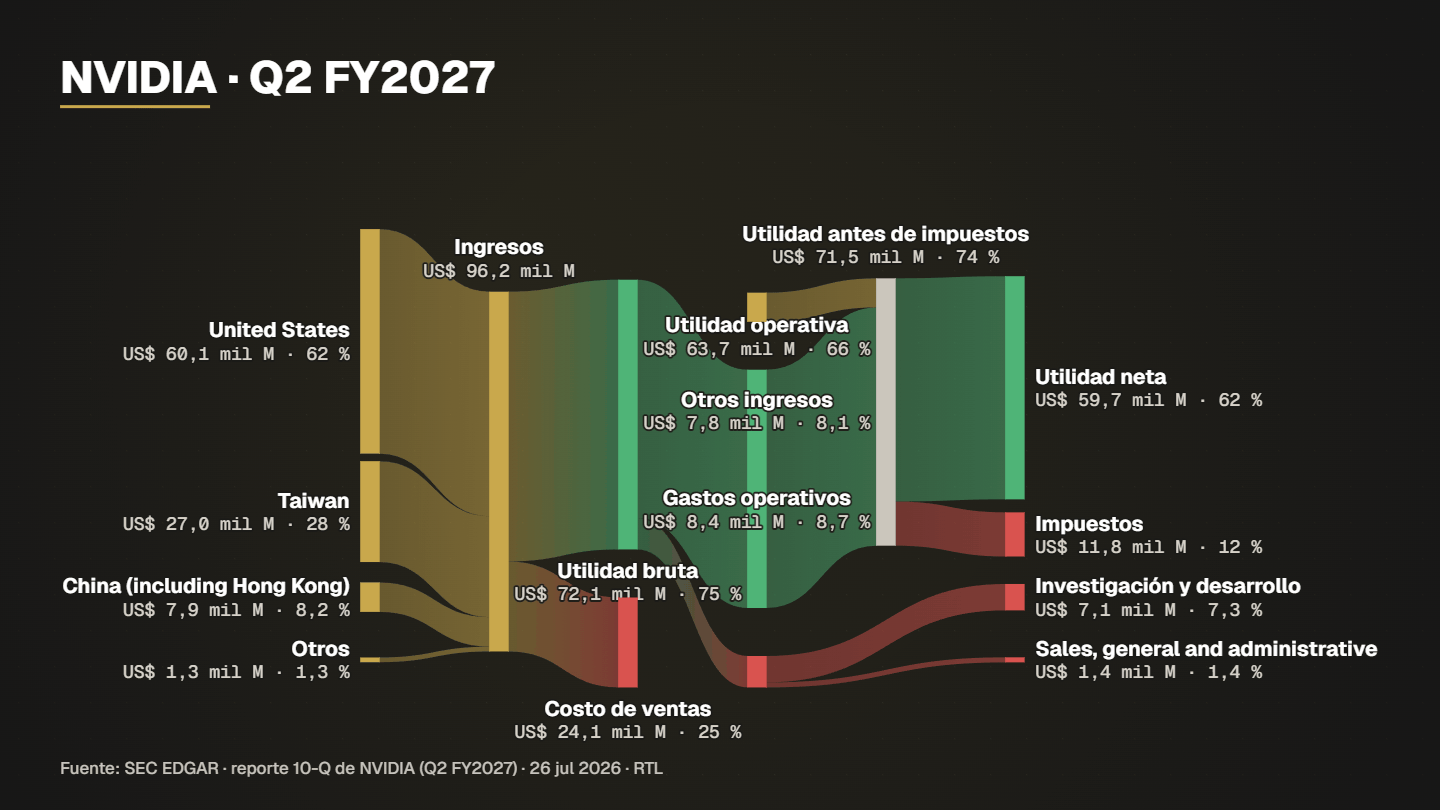
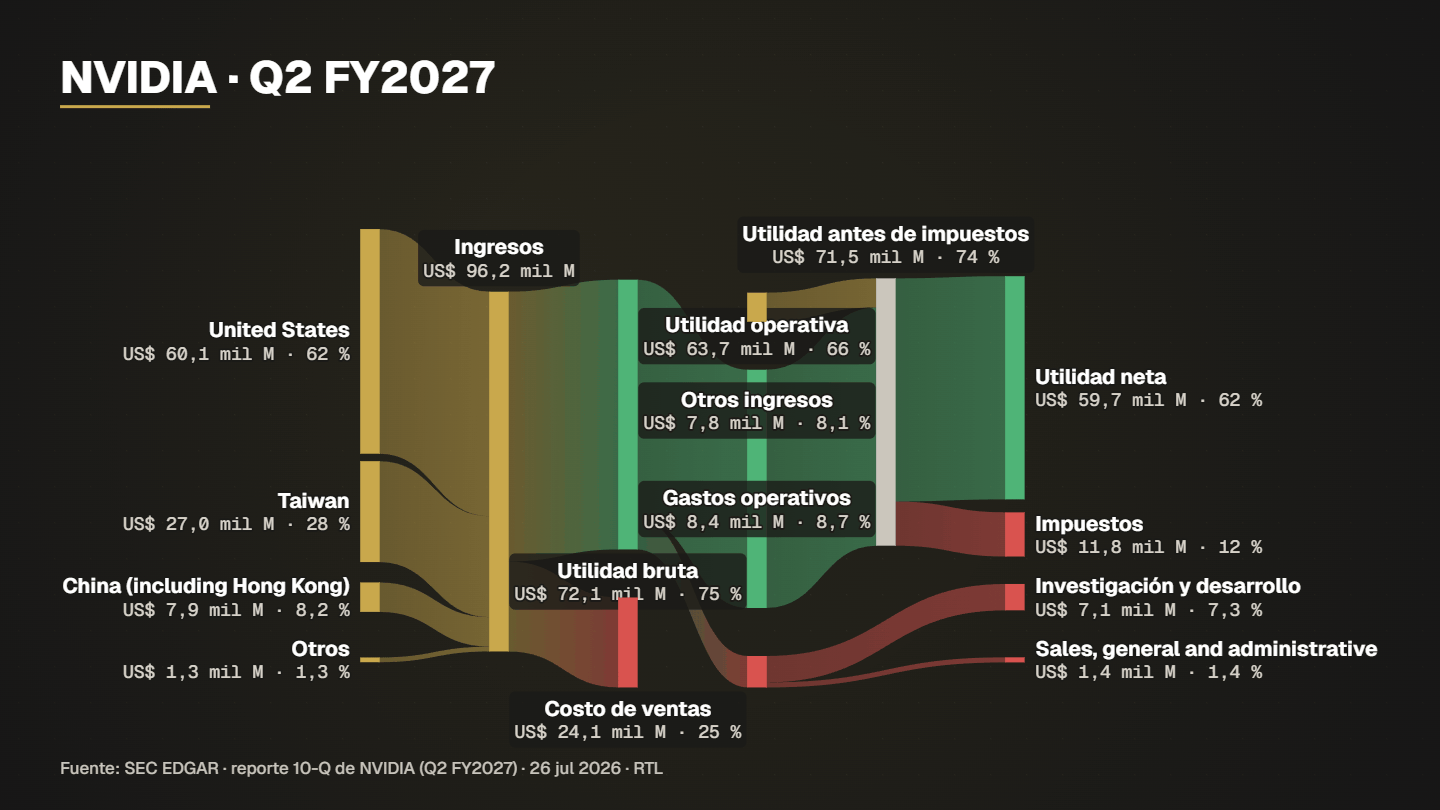
Charts: Sankey label plates, wrapped subtitles (no ellipsis), correlation/lollipop/slope/histogram layout fixes

diff --git a/motor/capas.js b/motor/capas.js
@@ -468,25 +468,26 @@ function calor(env, capa) {
   const [t0, t1] = capa.t ?? [0.5, 3];
   const ap = aparece(env, capa, t0); if (ap <= 0) return;
   const m = M.etiquetas.length, vert = env.H > env.W;
-  ctx.font = fnt(700, 22 * u); const LW = Math.min(B.w * 0.36, Math.max(...M.etiquetas.map((e) => ctx.measureText(e).width)) + 24 * u);
-  const cabeza = (vert ? 200 : 120) * u, side = Math.min(B.w - LW, B.h - cabeza) * 0.98, c = side / m;
+  ctx.font = fnt(700, 22 * u); const LW = Math.min(B.w * (vert ? 0.44 : 0.36), Math.max(...M.etiquetas.map((e) => ctx.measureText(e).width)) + 24 * u);
+  const cabeza = (vert ? 250 : 120) * u, side = Math.min(B.w - LW, B.h - cabeza) * 0.98, c = side / m, ch = vert ? Math.min(c * 1.7, (B.h - cabeza) * 0.98 / m) : c;   // en vertical las casillas son más altas que anchas: llenan el lienzo
   const ox = B.x + LW, oy = B.y + cabeza;
   const col = (v) => colorDivergente(clamp(v, -1, 1));   // BrBG vendorizado (motor/escalas.js): el cero ya no se confunde con el fondo y distingue negativo/positivo un daltónico
   ctx.save(); ctx.globalAlpha = ap;
   for (let i = 0; i < m; i++) {
     // nombres completos en hasta 2 líneas (antes «Bono del Tesoro 10 años (di…»); solo si ni así caben, el último recurso es cortar
-    ctx.font = fnt(700, 22 * u); const lhN = escalarFuente(22 * u) * 1.1, lnC = envolverEntero(ctx, M.etiquetas[i], LW - 20 * u, 2) ?? [cortar(ctx, M.etiquetas[i], LW - 20 * u)], yC = oy + i * c + c / 2 + mid(22 * u) - ((lnC.length - 1) * lhN) / 2;
+    ctx.font = fnt(700, 22 * u); const lhN = escalarFuente(22 * u) * 1.1, lnC = envolverEntero(ctx, M.etiquetas[i], LW - 20 * u, 3) ?? [cortar(ctx, M.etiquetas[i], LW - 20 * u)], yC = oy + i * ch + ch / 2 + mid(22 * u) - ((lnC.length - 1) * lhN) / 2;
     lnC.forEach((l, q) => texto(ctx, l, ox - 14 * u, yC + q * lhN, fnt(700, 22 * u), PALETA.piedraClara, 'right'));
     reg(env, 'etiqueta', [ox - 14 * u - Math.max(...lnC.map((l) => ctx.measureText(l).width)), yC - escalarFuente(22 * u), ox - 14 * u, yC + (lnC.length - 1) * lhN + 12 * u], `${capa.id ?? 'calor'}:f:${i}`);
     ctx.save(); ctx.translate(ox + i * c + c / 2, oy - 14 * u); ctx.rotate(-Math.PI / 4);
-    ctx.font = fnt(700, 22 * u); const lnR = envolverEntero(ctx, M.etiquetas[i], cabeza * 1.5, 2) ?? [cortar(ctx, M.etiquetas[i], cabeza * 1.5)]; lnR.forEach((l, q) => texto(ctx, l, 0, -(lnR.length - 1 - q) * lhN, fnt(700, 22 * u), PALETA.piedraClara, 'left')); ctx.restore();
+    ctx.font = fnt(700, 22 * u); const limR = cabeza * (vert ? 1.9 : 1.5); let fzR = 22 * u; if (vert) while (fzR > 17 * u && ctx.measureText(M.etiquetas[i]).width > limR) { fzR -= 1 * u; ctx.font = fnt(700, fzR); }   // en vertical el rótulo inclinado se achica un poco antes que partirse
+    const lnR = envolverEntero(ctx, M.etiquetas[i], limR, vert ? 1 : 2) ?? envolverEntero(ctx, M.etiquetas[i], limR, 2) ?? [cortar(ctx, M.etiquetas[i], limR)]; lnR.forEach((l, q) => texto(ctx, l, 0, -(lnR.length - 1 - q) * lhN, fnt(700, fzR), PALETA.piedraClara, 'left')); ctx.restore();
     for (let j = 0; j < m; j++) {
       const ini = t0 + ((Math.abs(i - j) + (i + j) * 0.15) / (m * 1.3)) * (t1 - t0), g = prog(t, ini, ini + 0.45, ease.outBack);
       if (g <= 0) continue;
       const v = M.valores[i][j];
-      ctx.save(); ctx.translate(ox + j * c + c / 2, oy + i * c + c / 2); ctx.scale(g, g);
+      ctx.save(); ctx.translate(ox + j * c + c / 2, oy + i * ch + ch / 2); ctx.scale(g, g);
       const fondoC = col(v == null ? 0 : v), tinta = contraste(fondoC, PALETA.blanco) >= contraste(fondoC, TINTA_OSCURA) ? PALETA.blanco : TINTA_OSCURA;   // la cifra elige la tinta que más contrasta con su celda
-      ctx.fillStyle = fondoC; ctx.fillRect(-c / 2 + 2 * u, -c / 2 + 2 * u, c - 4 * u, c - 4 * u);
+      ctx.fillStyle = fondoC; ctx.fillRect(-c / 2 + 2 * u, -ch / 2 + 2 * u, c - 4 * u, ch - 4 * u);
       const txtV = v == null ? '—' : fmtNum(v, {decimales: 2}); let fz = escalarFuente(26 * u); ctx.font = fuenteCss(700, fz, true); const wV = ctx.measureText(txtV).width;
       if (wV > c - 10 * u) fz *= (c - 10 * u) / wV;   // la cifra se achica para caber en su casilla (con celdas pequeñas la tipografía mínima se montaba sobre la vecina)
       texto(ctx, txtV, 0, mid(26 * u), fuenteCss(700, fz, true), tinta, 'center');
@@ -537,8 +538,17 @@ function cajaTitulo(env, capa) {
   while ((lineas.length > maxL || lineas.some((l) => ctx.measureText(l).width > libre)) && tam > minimo) { tam -= 2 * u; lineas = medir(); }
   ctx.font = fuenteCssT(tam);
   const w = Math.max(...lineas.map((l) => ctx.measureText(l).width)), lh = tam * 1.12, ult = y + (lineas.length - 1) * lh;
-  const subT = capa.sub ? tipo(env, 'sub') : 0, abajo = ult + 24 * u + (capa.sub ? subT * 1.25 + 6 * u : 0);
-  return {x, y, w, tam, lh, lineas, texto: lineas.join(' '), ult, subT, caja: [x - 6 * u, y - tam, x + w + 6 * u, abajo]};
+  const subT = capa.sub ? tipo(env, 'sub') : 0;
+  // subtítulo: se envuelve por palabras (2 líneas, 3 si hace falta) en vez de cortarse con «…»; solo si una palabra sola no cabe se recorta
+  let subLineas = [];
+  if (capa.sub) {
+    ctx.font = fuenteCss(500, subT); const tope = vert ? ZONA.x * W - x - 6 : Math.min(W - 2 * x, Math.max(w + 400 * u, W * 0.5));
+    subLineas = ctx.measureText(String(capa.sub)).width <= tope ? [String(capa.sub)] : (envolverEntero(ctx, String(capa.sub), tope, 2) ?? envolverEntero(ctx, String(capa.sub), tope, 3) ?? envolver(ctx, String(capa.sub), tope, 3));
+  }
+  // si el subtítulo ocupa 2+ líneas (vertical, posición por defecto) el bloque sube lo que crece, para no invadir el contador ni la gráfica
+  const dy = vert && !capa.pos ? -Math.min(Math.max(0, subLineas.length - 1) * subT * 1.25, 0.035 * H) : 0, yy = y + dy, ult2 = ult + dy;
+  const abajo = ult2 + 24 * u + (capa.sub ? subT * 1.25 * subLineas.length + 6 * u : 0);
+  return {x, y: yy, w, tam, lh, lineas, texto: lineas.join(' '), ult: ult2, subT, subLineas, caja: [x - 6 * u, yy - tam, x + w + 6 * u, abajo]};
 }
 const fuenteCssT = (px) => fuenteCss(800, px);
 function cajaContador(env, capa) {
@@ -772,10 +782,7 @@ function titulo(env, capa) {
   const r = prog(t, t0 + 0.2, t0 + 0.9, ease.out3);
   ctx.fillStyle = color; ctx.fillRect(x, T.ult + 16 * u, Math.min(w, 200 * u) * r, 4 * u);
   if (capa.sub) {
-    ctx.font = fuenteCss(500, T.subT); let sb = String(capa.sub), cortado = false; const tope = env.W - 2 * x;   // nunca más allá del lienzo con el mismo margen a la derecha
-    while (sb.length > 6 && (ctx.measureText(sb).width > tope || (ctx.measureText(sb).width > T.w + 400 * u && ctx.measureText(sb).width > (env.H > env.W ? ZONA.x * env.W - x : env.W * 0.5)))) { sb = sb.slice(0, -2); cortado = true; }
-    if (cortado) sb = sb.trimEnd().replace(/[,:;.\s]+$/, '') + '…';
-    texto(ctx, sb, x, T.ult + 24 * u + T.subT, fuenteCss(500, T.subT), PALETA.piedraClara, 'left', 'alphabetic', prog(t, t0 + 0.5, t0 + 1.0, ease.out3));
+    T.subLineas.forEach((sb, q) => texto(ctx, sb, x, T.ult + 24 * u + T.subT + q * T.subT * 1.25, fuenteCss(500, T.subT), PALETA.piedraClara, 'left', 'alphabetic', prog(t, t0 + 0.5, t0 + 1.0, ease.out3)));
   }
   ctx.restore();
   reg(env, 'titulo', T.caja, capa.id);
@@ -1013,6 +1020,10 @@ function sankey(env, capa) {
     ctx.save(); ctx.globalAlpha *= la;
     const f1 = fnt(700, 23 * u * k), f2 = fnt(500, 19 * u * k, true), f3 = fnt(600, 17 * u * k, true), {x, aling: al, yTop, al: alto, caja} = n.lab;
     const [lh1, lh2, lh3] = L.lhs;
+    if (n.nivel > 0 && n.nivel < L.ncol - 1) {   // nodo central: el rótulo cae sobre cintas, así que lleva una placa del color del fondo detrás (legible sin tapar el flujo del todo)
+      ctx.fillStyle = rgba(PALETA.fondo, 0.78); const pad = 7 * u, r = 8 * u, bx = caja[0] - pad, by = caja[1] - pad * 0.4, bw = caja[2] - caja[0] + pad * 2, bh = caja[3] - caja[1] + pad * 0.8;
+      ctx.beginPath(); ctx.roundRect ? ctx.roundRect(bx, by, bw, bh, r) : ctx.rect(bx, by, bw, bh); ctx.fill();
+    }
     rotulo(ctx, n.l1, x, yTop + lh1 - 4 * u, f1, PALETA.blanco, al, u);
     if (n.l2) rotulo(ctx, n.l2, x, yTop + lh1 + lh2 - 4 * u, f2, PALETA.piedraClara, al, u);
     if (n.l3) rotulo(ctx, n.l3, x, yTop + lh1 + (n.l2 ? lh2 : 0) + lh3 - 4 * u, f3, env.H > env.W ? PALETA.piedraClara : (n.valor >= n.anterior ? COLOR.verde : COLOR.rojo), al, u);
@@ -1179,10 +1190,10 @@ function separar(ys, gap, lo, hi) {
 /** Pendiente (slope chart): dos momentos, una línea por serie. Responde «¿quién subió y quién bajó entre A y B?». */
 function pendiente(env, capa) {
   const {ctx, u, t, H, W} = env, tab = env.tablas[capa.datos], vert = H > W;
-  const B = caja(env, capa, vert ? [0.0667, 0.27, 0.64, 0.54] : [0.05, 0.25, 0.9, 0.62]);
+  const B = caja(env, capa, vert ? [0.0667, 0.27, 0.64, 0.55] : [0.05, 0.22, 0.9, 0.62]);
   const [t0, t1] = capa.t ?? [0.5, 5], ap = aparece(env, capa, t0); if (ap <= 0) return;
   const n = tab.x.length, i0 = capa.de ?? 0, i1 = capa.a ?? n - 1;
-  const xl = B.x + B.w * (vert ? 0.4 : 0.36), xr = B.x + B.w * (vert ? 0.62 : 0.64), fT = fnt(700, 26 * u), fL = fnt(500, 20 * u, true), fR = fnt(800, 26 * u, true), fD = fnt(700, 20 * u, true);
+  const xl = B.x + B.w * (vert ? 0.43 : 0.36), xr = B.x + B.w * (vert ? 0.62 : 0.72), fT = fnt(700, 26 * u), fL = fnt(500, 20 * u, true), fR = fnt(800, 26 * u, true), fD = fnt(700, 20 * u, true);
   const sT = escalarFuente(26 * u), sS = escalarFuente(20 * u);
   const L = (capa._pl ??= (() => {
     const idxs = (capa.series ?? tab.series.map((_, i) => i)).filter((si) => tab.series[si].y[i0] != null && tab.series[si].y[i1] != null);
@@ -1190,7 +1201,7 @@ function pendiente(env, capa) {
     const logE = lo > 0 && hi / lo > 8 && capa.escala !== 'lineal', f = logE ? Math.log10 : (v) => v;   // magnitudes muy distintas: escala logarítmica (se avisa en pantalla)
     const py = (v) => bajo - ((f(v) - f(lo)) / ((f(hi) - f(lo)) || 1)) * (bajo - top);
     ctx.font = fT;
-    const nombres = idxs.map((si) => envolver(ctx, tab.series[si].nombre, xl - 22 * u - B.x, vert ? 2 : 1));
+    const nombres = idxs.map((si) => { const nm = tab.series[si].nombre, an = xl - 22 * u - B.x; return ctx.measureText(nm).width <= an ? [nm] : (envolverEntero(ctx, nm, an, vert ? 3 : 2) ?? envolver(ctx, nm, an, vert ? 3 : 2)); });   // nombre completo en 2-3 líneas, nunca «…» salvo una palabra que no cabe sola
     const alto = Math.max(...nombres.map((l) => l.length)) * sT * 1.15 + sS * 1.3, gap = Math.min(alto + 14 * u, Math.max(sT * 2, (bajo - top) / Math.max(1, idxs.length)));
     const yl = separar(idxs.map((si) => py(tab.series[si].y[i0])), gap, top - 10 * u, bajo + 10 * u), yr = separar(idxs.map((si) => py(tab.series[si].y[i1])), gap, top - 10 * u, bajo + 10 * u);
     return {idxs, py, yl, yr, logE, nombres, omitidas: (capa.series ?? tab.series.map((_, i) => i)).length - idxs.length};
@@ -1397,20 +1408,29 @@ function waffle(env, capa) {
 /** Lollipop: ranking de partes con palo desde CERO (base honesta) y un círculo; cada fila lleva valor y porcentaje. Pensada para vertical (tipografía grande). */
 function lollipop(env, capa) {
   const {ctx, u, t, H, W} = env, tab = env.tablas[capa.datos], vert = H > W;
-  const B = caja(env, capa, vert ? [0.0667, 0.26, 0.64, 0.6] : [0.05, 0.24, 0.9, 0.64]);
+  const B = caja(env, capa, vert ? [0.0667, 0.26, 0.64, 0.6] : [0.05, 0.22, 0.9, 0.68]);
   const [t0, t1] = capa.t ?? [0.5, 5], ap = aparece(env, capa, t0); if (ap <= 0) return;
   const items = (capa._lp ??= [...tab.items].filter((x) => x.valor > 0).sort((a, b) => b.valor - a.valor)), total = items.reduce((a, x) => a + x.valor, 0), n = items.length;
-  const fila = Math.min(vert ? 118 * u : 96 * u, B.h / n), k = clamp(fila / (100 * u), 0.6, 1), fN = fnt(700, 31 * u * k), fV = fnt(800, 29 * u * k, true), fP = fnt(700, 24 * u * k, true);
+  const fila = Math.min(vert ? 118 * u : 120 * u, B.h / n), k = vert ? clamp(fila / (100 * u), 0.6, 1) : clamp(fila / (70 * u), 0.8, 1), fN = fnt(700, 31 * u * k), fV = fnt(800, 29 * u * k, true), fP = fnt(700, 24 * u * k, true);
   const pal = paletaCat(), vmax = items[0].valor, p = prog(t, t0, t1, ease.io2) * n, y0 = B.y + (B.h - fila * n) / 2;
-  ctx.font = fV; const wMax = Math.max(...items.map((it) => ctx.measureText(`${fmtNum(it.valor, tab.fmt)}  ·  ${pctTxt((it.valor / total) * 100)}`).width)), largo = Math.max(60 * u, B.w - 24 * u - wMax - 56 * u * k);
+  ctx.font = fV; const wMax = Math.max(...items.map((it) => ctx.measureText(`${fmtNum(it.valor, tab.fmt)}  ·  ${pctTxt((it.valor / total) * 100)}`).width));
+  ctx.font = fN; const nameW = vert ? 0 : Math.min(B.w * 0.3, Math.max(...items.map((it) => ctx.measureText(it.nombre).width)) + 28 * u);   // horizontal: nombre a la izquierda y el palo a la derecha, en UNA fila (fuentes más grandes y menos alto por fila)
+  const xs = B.x + 12 * u + nameW, largo = Math.max(60 * u, B.x + B.w - 24 * u - xs - wMax - 56 * u * k);
   ctx.save(); ctx.globalAlpha *= ap;
   items.forEach((it, i) => {
     const a = clamp(p - i), e = ease.out3(a); if (a <= 0) return;
-    const y = y0 + i * fila, col = pal[i % pal.length], ancho = B.w - 24 * u, xe = B.x + 12 * u + (it.valor / vmax) * largo * e, yb = y + fila * 0.68;
-    ctx.font = fN; const nom = cortar(ctx, it.nombre, B.w - 16 * u);
-    rotulo(ctx, nom, B.x + 12 * u, y + fila * 0.34, fN, PALETA.blanco, 'left', u);
-    reg(env, 'etiqueta', [B.x + 12 * u, y + fila * 0.34 - 28 * u * k, B.x + 12 * u + ctx.measureText(nom).width, y + fila * 0.34 + 8 * u], `${capa.id ?? 'lollipop'}:n:${it.nombre}`);
-    ctx.strokeStyle = col; ctx.lineWidth = 7 * u * k; ctx.lineCap = 'round'; ctx.beginPath(); ctx.moveTo(B.x + 12 * u, yb); ctx.lineTo(xe, yb); ctx.stroke();
+    const y = y0 + i * fila, col = pal[i % pal.length], ancho = B.w - 24 * u, xe = xs + (it.valor / vmax) * largo * e, yb = vert ? y + fila * 0.68 : y + fila / 2;
+    ctx.font = fN;
+    if (vert) {
+      const nom = cortar(ctx, it.nombre, B.w - 16 * u);
+      rotulo(ctx, nom, B.x + 12 * u, y + fila * 0.34, fN, PALETA.blanco, 'left', u);
+      reg(env, 'etiqueta', [B.x + 12 * u, y + fila * 0.34 - 28 * u * k, B.x + 12 * u + ctx.measureText(nom).width, y + fila * 0.34 + 8 * u], `${capa.id ?? 'lollipop'}:n:${it.nombre}`);
+    } else {
+      const ln = envolverEntero(ctx, it.nombre, nameW - 16 * u, 2) ?? [cortar(ctx, it.nombre, nameW - 16 * u)], lhn = escalarFuente(31 * u * k) * 1.1, y1 = yb + 10 * u * k - ((ln.length - 1) * lhn) / 2;
+      ln.forEach((l, q) => rotulo(ctx, l, B.x + 12 * u, y1 + q * lhn, fN, PALETA.blanco, 'left', u));
+      reg(env, 'etiqueta', [B.x + 12 * u, y1 - 28 * u * k, B.x + 12 * u + Math.max(...ln.map((l) => ctx.measureText(l).width)), y1 + (ln.length - 1) * lhn + 8 * u], `${capa.id ?? 'lollipop'}:n:${it.nombre}`);
+    }
+    ctx.strokeStyle = col; ctx.lineWidth = 7 * u * k; ctx.lineCap = 'round'; ctx.beginPath(); ctx.moveTo(vert ? B.x + 12 * u : xs, yb); ctx.lineTo(xe, yb); ctx.stroke();
     ctx.fillStyle = col; ctx.beginPath(); ctx.arc(xe, yb, 15 * u * k * (0.5 + 0.5 * e), 0, 7); ctx.fill();
     const la = clamp((a - 0.5) / 0.5); if (la <= 0) return;
     const txt = `${fmtNum(it.valor, tab.fmt)}  ·  ${pctTxt((it.valor / total) * 100)}`; ctx.font = fV;

diff --git a/motor/capas_extra.js b/motor/capas_extra.js
@@ -316,6 +316,7 @@ function histograma(env, capa) {
   // marcas: mediana y último valor (en filas distintas de la franja superior para que sus rótulos nunca se pisen)
   const marca = (v, fila, color, txt, id) => { const x = clamp(px(v), x0, x1), w = med(env, txt, 18, 700, true), xx = clamp(x, x0 + w / 2, x1 - w / 2), g = ent(env, t0 + 1.2, fila);
     ctx.globalAlpha = ap * g; ctx.strokeStyle = color; ctx.lineWidth = 2.5 * u; ctx.setLineDash(fila ? [] : [8 * u, 6 * u]); ctx.beginPath(); ctx.moveTo(x, B.y + S * (fila ? 3.2 : 1.9)); ctx.lineTo(x, y1); ctx.stroke(); ctx.setLineDash([]);
+    if (fila) { ctx.save(); ctx.globalAlpha = ap * g; ctx.fillStyle = rgba(PALETA.fondo, 0.96); ctx.fillRect(xx - w / 2 - 8 * u, B.y + S * 2.95 - S * 0.95, w + 16 * u, S * 1.3); ctx.restore(); }   // placa del fondo: la línea punteada de la mediana no atraviesa el rótulo de la fila de abajo
     rot(env, txt, xx, B.y + S * (fila ? 2.95 : 1.65), 18, 800, color, 'center', `${capa.id ?? 'histograma'}:${id}`, {mono: true, alpha: g}); ctx.globalAlpha = ap; };
   const etM = (v) => (L.ret ? fmtSigno(v, {decimales: 2, sufijo: ' %'}) : etX(v));   // las marcas llevan más decimales que el eje: «0 %» no puede esconder un −0,24 %
   marca(L.mediana, 0, PALETA.piedraClara, `MEDIANA ${etM(L.mediana)}`, 'mediana');

diff --git a/docs/diagnosticos/2026-11-05-noche.md b/docs/diagnosticos/2026-11-05-noche.md
@@ -25,3 +25,5 @@ y comparando con las referencias de `docs/STYLE_REFERENCES.md`. Cada arreglo se 
 
 - Commit 1: ranking (filas por alto disponible, sin choque), cascada vertical (nombres en 2-3 líneas, filas de alto variable), pictograma y bullet (nombres en líneas), dumbbell (aire con pocas filas), carrera (filas y barras proporcionales, barra pegada a su etiqueta en vertical). Pruebas: prueba, tablas, plantillas, visualizador, universal, calidad, paises: todas OK.
 - Rechazado/pendiente: Sankey horizontal (etiquetas sobre cintas) y traducción SEC: requieren más trabajo; ver tabla.
+
+- Commit 2 (segunda pasada): Sankey horizontal (placa del color del fondo tras los rótulos de nodos centrales: ya no se pierden sobre las cintas), correlación vertical (casillas más altas, rótulos en 3 líneas, encabezado inclinado en 2 líneas), subtítulo de TODAS las piezas envuelto por palabras (2-3 líneas) en vez de «…» (el bloque de título sube y el contador no se pisa), lollipop horizontal (nombre a la izquierda y palo a la derecha en una fila: fuentes completas), pendiente (nombres en 2-3 líneas, más alto/ancho), histograma/retornos (la raya de la mediana ya no cruza el rótulo ÚLTIMO). Auditor: las líneas del subtítulo (rol «sub» 34 px) ya no se cuentan como nombres. Imágenes antes/después: `docs/gallery/before/n2-*.png`. Panel: ya llenaba bien el lienzo, sin cambio.
